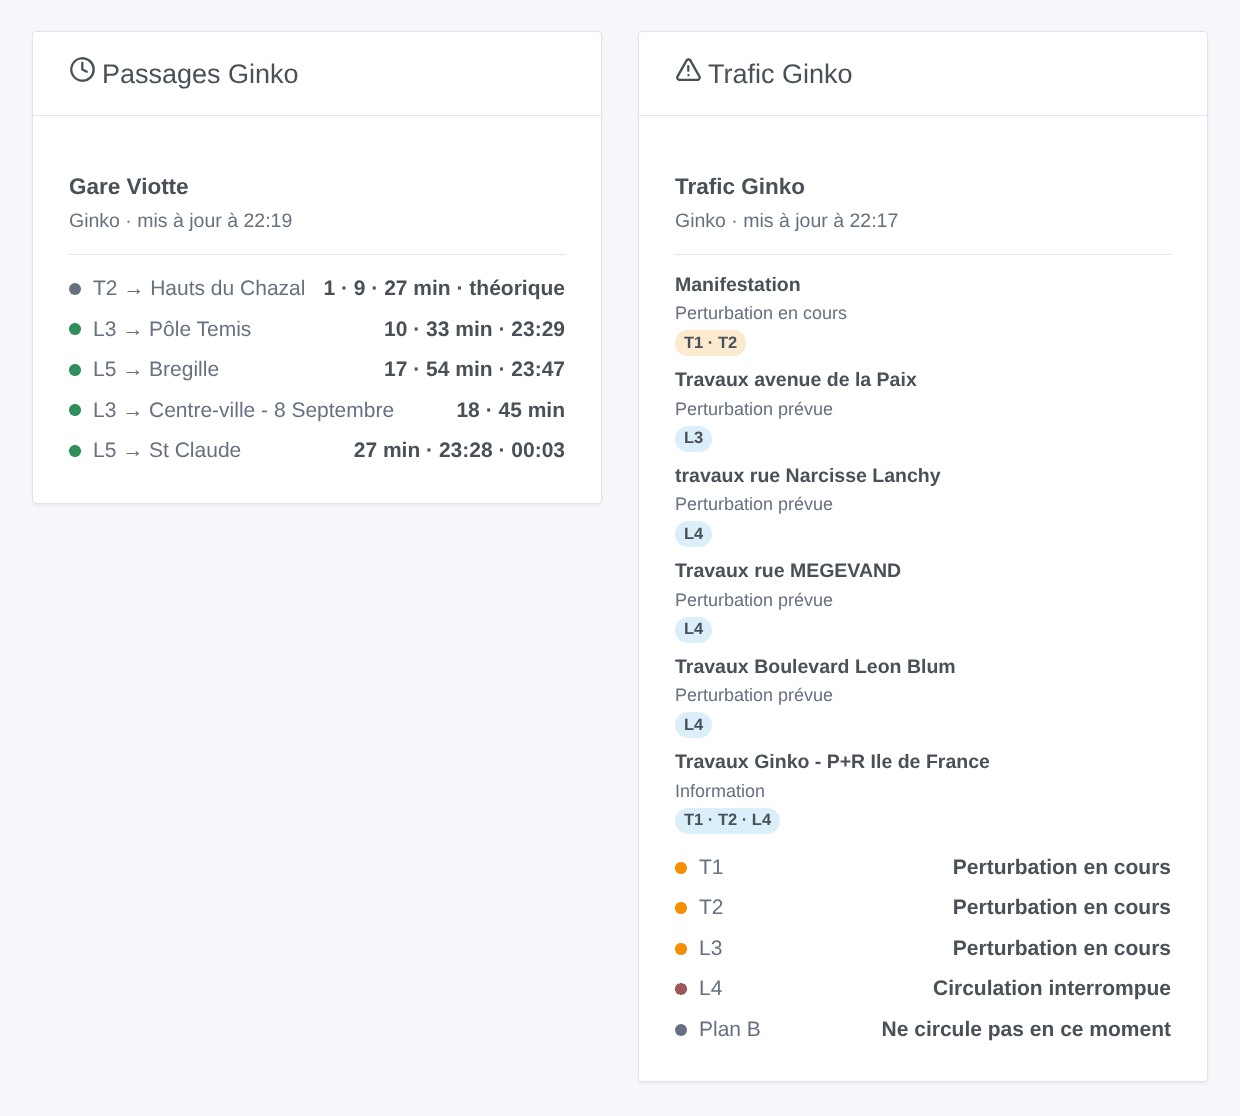
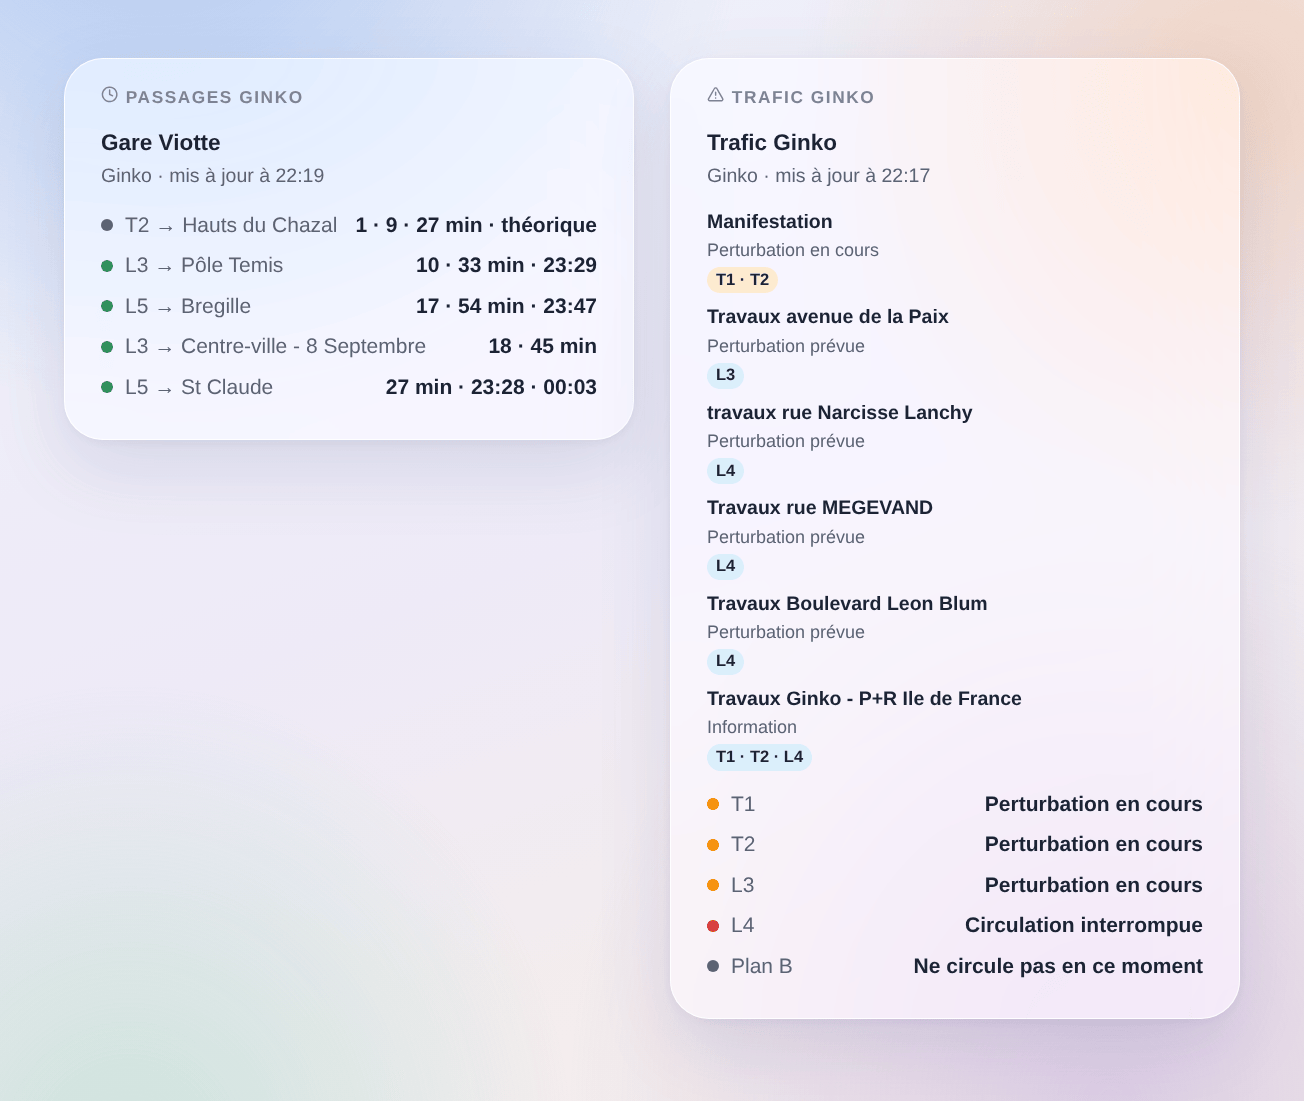
docs: widget illustrations in the Gladys 5 look (Horizon glass dashboard)
The illustrations used the Gladys v4 card look. render.sh now takes the styles of the current Gladys front, adds the Horizon dashboard theme (glass cards, uppercase title, default scene) and quantizes with libimagequant so the small colored dots survive the gradient.

Changed region(s): [[0.0, 0.0, 1.0, 1.0], [0.0, 0.8338, 0.2452, 1.0]]

diff --git a/docs/illustrations/index.html b/docs/illustrations/index.html
@@ -5,10 +5,25 @@
     <link rel="stylesheet" href="vendor/theme/package/dashboard.css" />
     <link rel="stylesheet" href="widget.css" />
     <link rel="stylesheet" href="dark-mode.css" />
+    <link rel="stylesheet" href="horizon.css" />
     <style>
       body {
-        background: #f5f7fb;
-        padding: 24px;
+        background: #fff;
+        margin: 0;
+        padding: 8px;
+      }
+      /* the page header of the theme shares the class name of the widget
+         header slot (a CSS module class in Gladys): keep it off the widget */
+      .card .header {
+        padding: 0;
+        background: none;
+        border-bottom: 0;
+      }
+      /* the dashboard scene, a margin around the cards for their shadow */
+      #stage {
+        display: inline-block;
+        overflow: hidden;
+        padding: 40px 44px 56px;
       }
       #row {
         display: flex;
@@ -31,7 +46,7 @@
     <script src="data.js"></script>
   </head>
   <body>
-    <div id="row"></div>
+    <div id="stage" class="glass-theme glassScene"><div id="row"></div></div>
     <script>
       if (new URLSearchParams(location.search).get('theme') === 'dark') {
         document.documentElement.classList.add('dark-mode');
